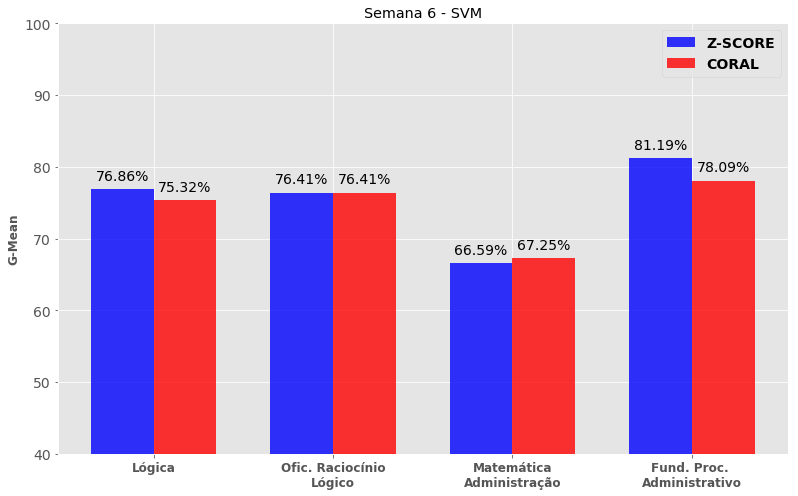
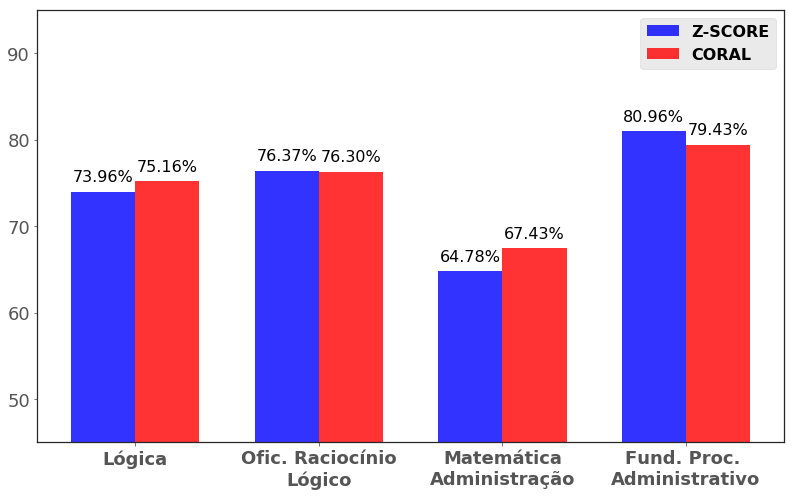
Ajuste gráfico

diff --git a/Dataset/Algoritmos/Experimento final/ml_normalizacao_novo.py b/Dataset/Algoritmos/Experimento final/ml_normalizacao_novo.py
@@ -59,7 +59,7 @@ def sumarizar(i, disciplina, classificador, df, result, coral=False):
         result.set_value(i,classificador + 'RecallInsucesso', df['Recall Insucesso'].mean())
 
 def autolabel(rects, ax):
-    tamFonte = 14
+    tamFonte = 16
     
     (y_bottom, y_top) = ax.get_ylim()
     y_height = y_top - y_bottom
@@ -80,7 +80,7 @@ plt.rcParams['figure.figsize'] = (11,7)
 
 #-------------------------------------------------------
 # Configuração de filtros para o dataset
-modulo_s = 3 #0 = ignora o módulo. Lembrando que só existem os módulos 3 e 6
+modulo_s = 6 #0 = ignora o módulo. Lembrando que só existem os módulos 3 e 6
 classificador = 3
 
 features = {
@@ -212,7 +212,7 @@ plt.savefig('accur_m{}_{}'.format(modulo_s, classif_str))
 #-----------------------#
 width=0.35
 opacity = 0.8
-tamFonte = 14
+tamFonte = 16
 
 plt.rcParams['axes.edgecolor'] = "0.15"
 plt.rcParams['axes.linewidth'] = 1.25
@@ -243,7 +243,7 @@ classif_str = classificadores[classificador]
 
 #plt.ylabel('G-Mean', fontsize = tamFonte - 2, fontweight='bold')
 
-plt.xticks(ind + width / 2,result['Disciplina'], fontsize = tamFonte - 2, fontweight='bold')
+plt.xticks(ind + width / 2,result['Disciplina'], fontsize = tamFonte+2, fontweight='bold')
 #plt.xticklabels(result['Disciplina'])
 
 plt.legend(prop={'size': tamFonte, 'weight': 'bold'})
@@ -253,9 +253,9 @@ ax.patch.set_facecolor('w')
 #ax.grid(True)
 
 axes = plt.gca()
-axes.set_ylim([40,100])
+axes.set_ylim([45,95])
 
-plt.tick_params(axis='y', labelsize = tamFonte)
+plt.tick_params(axis='y', labelsize = tamFonte + 2)
 plt.show()
 plt.savefig('gmean_m{}_{}'.format(modulo_s, classif_str))
 
